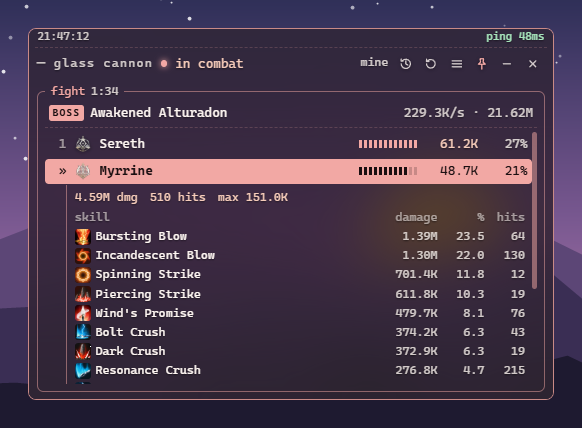
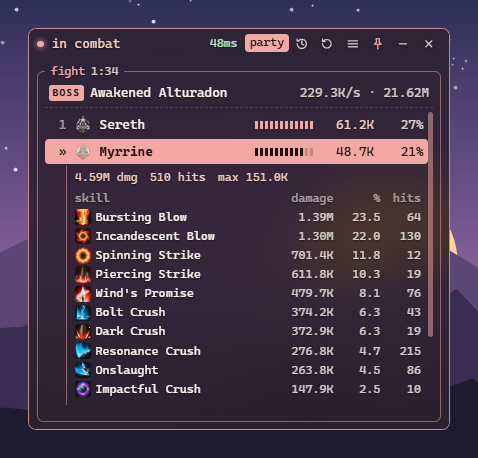
Docs and screenshots for the new defaults
Retake the README screenshots at the new defaults (5-row overlay, the
wide settings panel, party scope in the skill view) and document the
bundled data, mine / party / all, and names.json.

Changed region(s): [[0.0, 0.0607, 1.0, 0.9416], [0.5858, 0.0, 0.6151, 0.0304], [0.0293, 0.0, 0.0586, 0.0304]]

diff --git a/README.md b/README.md
@@ -1,8 +1,9 @@
 # Glass Cannon
 
-A frosted-glass DPS meter overlay for **Aion 2** on Windows. It reads the game's own network traffic
-(passively, through Npcap), so it never touches the game or its memory. No admin rights
-while running, no hidden scheduled tasks, no silent auto-updates, no telemetry.
+A frosted-glass DPS meter overlay for **Aion 2** on Windows. It reads the game's own
+network traffic (passively, through Npcap), so it never touches the game or its memory.
+No admin rights while running, no hidden scheduled tasks, no auto-updates, and it never
+goes online: everything it needs is in the download.
 
 ![The meter during a boss fight](docs/screenshots/overlay.png)
 
@@ -18,33 +19,39 @@ while running, no hidden scheduled tasks, no silent auto-updates, no telemetry.
 
 1. Install [Npcap](https://npcap.com) (once). Leave **"Restrict Npcap driver's access to
    Administrators only"** unticked, so the meter can run without admin rights.
-2. Download `glass-cannon-vX.Y.Z-windows-x64.zip` from
-   [Releases](../../releases) and extract it to a folder you own (for example
-   `Documents\Glass Cannon`, not `Program Files`: the meter keeps its game data next to
-   the exe). The `.sha256` file next to the zip lets you check the download.
+2. Download `glass-cannon-vX.Y.Z-windows-x64.zip` from [Releases](../../releases) and
+   extract it anywhere, for example `Documents\Glass Cannon`. It holds the meter and its
+   game data (skill, class and mob names and icons). The `.sha256` file next to the zip
+   lets you check the download.
 3. Run `glass-cannon.exe`. The exe isn't code-signed, so Windows SmartScreen may warn the
    first time: **More info → Run anyway**.
 
-On first start the meter downloads the game data it needs for skill, class and mob names
-and icons (about 10 MB from GitHub, see [Game data](#game-data)). It needs Windows 10 or
-11 with the WebView2 runtime (built into Windows 11).
+To update, extract a new release over the old folder; your settings, history and the
+names you typed yourself live elsewhere (see below) and stay. It needs Windows 10 or 11
+with the WebView2 runtime (built into Windows 11).
 
 ## Using the meter
 
 The meter opens and starts capturing straight away, waiting for the game if it isn't
 running yet. It's an always-on-top, frosted-glass window (Windows blurs whatever is behind
 it) in a warm rose, monospace style. It opens where you last left it (the first time: at
-the right edge of the game's monitor).
+the right edge of the game's monitor), tall enough for five players; it resizes itself
+to keep five in view when you change the font size, the time bar or minimal mode.
 
-- **mine / all**: your fight (targets you hit, plus everyone's damage on them) or every
-  player fighting nearby.
+- **mine / party / all** (click to cycle; also in settings):
+  - *mine*: your fight, the targets you hit, with everyone's damage on them.
+  - *party*: your party's or group's fight, the targets any of you hit, with only your
+    party's damage. The meter reads the roster the game sends when you join a party or an
+    expedition group; on your own it's just you.
+  - *all*: every player fighting nearby.
 - **Click a player** for their skill breakdown; hover a skill for its ID; double-click a
   skill or the target to name it yourself.
 - **Clock icon**: fight history. Every finished fight is kept (the last 200), with the
   full breakdown. **↺** resets; **pin** toggles always-on-top; **×** quits.
-- **≡** opens the **settings** beside the meter: status (Npcap, game, game data),
-  appearance, show everyone, record fights (applies the next time you open the meter),
-  update game data, fight history and a Desktop/Start-menu shortcut. Esc or × hides it.
+- **≡** opens the **settings** beside the meter (always fully on screen): appearance on
+  the left; status (Npcap, game, game data), whose damage counts, record fights (applies
+  the next time you open the meter), fight history and a Desktop/Start-menu shortcut on
+  the right. The window sizes itself to fit. Esc or × hides it.
 - **Appearance** (saved): theme colour (rose, lavender, mint, sky, amber, mono), font
   size (10–18 px; the layout and the meter bars scale with it, the bars in whole pixels so
   every block and row gap is the same size), highlight just your row or fill every row,
@@ -57,8 +64,8 @@ the right edge of the game's monitor).
   Drag it from anywhere; hover it for **≡** (settings).
 - **Time & ping bar**: an optional strip along the top with the local time and ping.
 - **Ping**: the header (or the time & ping bar) shows your round trip to the game
-  server, measured from the timing of the game's own TCP traffic (the median of the last 10 seconds). No extra
-  packets are sent.
+  server, measured from the timing of the game's own TCP traffic (the median of the last
+  10 seconds). No extra packets are sent.
 - A fight ends after 15 s without action; the last fight stays on screen until the next.
 - **Your character** is recognised the moment you hit a real mob, or at login or a zone
   change. Training dummies don't announce you, so until then the meter shows the name it
@@ -73,27 +80,24 @@ Recordings (with **record fights** on) go to a `captures` folder next to the exe
 
 ### Game data
 
-The meter downloads it on first start; **update game data** in the settings refreshes it.
-From a terminal:
+The release zip has a `gamedata` folder next to the exe: skill names and icons, class
+icons and boss lists from [NOIA2](https://github.com/ZDYoung0519/NOIA2), and English mob
+names (about 9,900, with boss and training-dummy flags) from
+[RATmeter](https://github.com/Kuroukihime/AIon2-Dps-Meter), two open-source Aion 2
+meters. Their tables use the same IDs the game sends. That folder stays under those
+projects' GPL-3.0 licence (its `SOURCES.txt` says which commits it came from); game names
+and art belong to NCSOFT. It isn't in this repository: `scripts/package.ps1` downloads it
+fresh for each release with `packet-lab update-data` (`--lang ko|zh-TW|zh-CN` for other
+skill languages), which also fills a local build's `target/release/gamedata`.
 
-```bash
-packet-lab update-data
-```
-
-This downloads data from two open-source (GPL-3.0) Aion 2 meters into
-a `gamedata` folder next to the exe: skill names and icons, class icons and boss lists from
-[NOIA2](https://github.com/ZDYoung0519/NOIA2), and English mob names (about 9,900, with
-boss and training-dummy flags) from [RATmeter](https://github.com/Kuroukihime/AIon2-Dps-Meter). Its tables use
-the same IDs the game sends. `--lang ko|zh-TW|zh-CN` picks another language for skills.
-The data stays on your machine and isn't part of this repository or the release zip
-(see [THIRD_PARTY.md](THIRD_PARTY.md)); game names and art belong to NCSOFT. Apart from
-this download the meter never goes online. Names you typed yourself survive updates.
+Skill and mob names you type yourself are saved in `names.json` (below), so a new
+release's data never overwrites them.
 
 If skills show as numbers, the status line says why, and `meter.log` in
 `%APPDATA%\io.github.xinjalin.glass-cannon\` records where the app looked at startup.
-That folder also holds `settings.json`, `profile.json` (your last-seen name) and
-`history.jsonl`. Settings from before the rename (`%APPDATA%\local.aion-meter`) move
-there on first start.
+That folder also holds `settings.json`, `names.json`, `profile.json` (your last-seen
+name) and `history.jsonl`. Settings from before the rename (`%APPDATA%\local.aion-meter`)
+move there on first start.
 
 The terminal version is `packet-lab live`; `packet-lab meter <session>` runs the meter
 over a recording.
@@ -112,7 +116,9 @@ cargo build --release
 target/release/glass-cannon.exe
 ```
 
-`scripts/package.ps1` builds the release zip into `dist/`.
+`target/release/packet-lab update-data` fetches the game data for a local build.
+`scripts/package.ps1` builds the release zip into `dist/`, downloading the game data
+into it (or `-GameData <folder>` to use one you have).
 
 ### Releases
 
@@ -151,6 +157,9 @@ target/release/packet-lab replay captures/<session>/raw.pcap
 
 # Message types in the game stream (bundles unpacked; game connection picked automatically)
 target/release/packet-lab opcodes captures/<session>
+
+# The meter over a recording (--party or --everyone for the other scopes)
+target/release/packet-lab meter captures/<session> --party
 
 # Damage events with names, per-attacker totals and DPS (--mine = only your hits)
 target/release/packet-lab damage captures/<session> --mine
@@ -194,8 +203,9 @@ git-ignored; don't share captures publicly.
 
 - The packet format is worked out from our own captures. Facts learned from the GPL-3.0
   NOIA2 and RATmeter projects (which message carries what) are re-checked against our captures and
-  implemented independently; their code is never copied, and their data is only
-  downloaded at runtime into a local, untracked folder. Nothing from closed-source meters.
+  implemented independently; their code is never copied. Their data ships unchanged
+  (reformatted) in the release's `gamedata` folder under their GPL-3.0 licence, and is
+  never committed here. Nothing from closed-source meters.
 - Reading your own traffic passively doesn't modify the game, but the game's terms may
   still forbid third-party meters. Use at your own account's risk.
 
